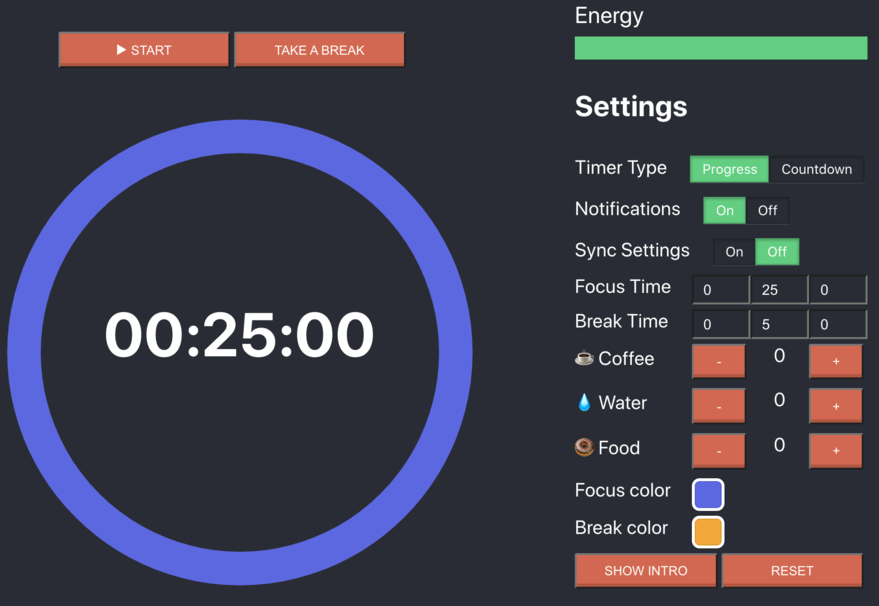
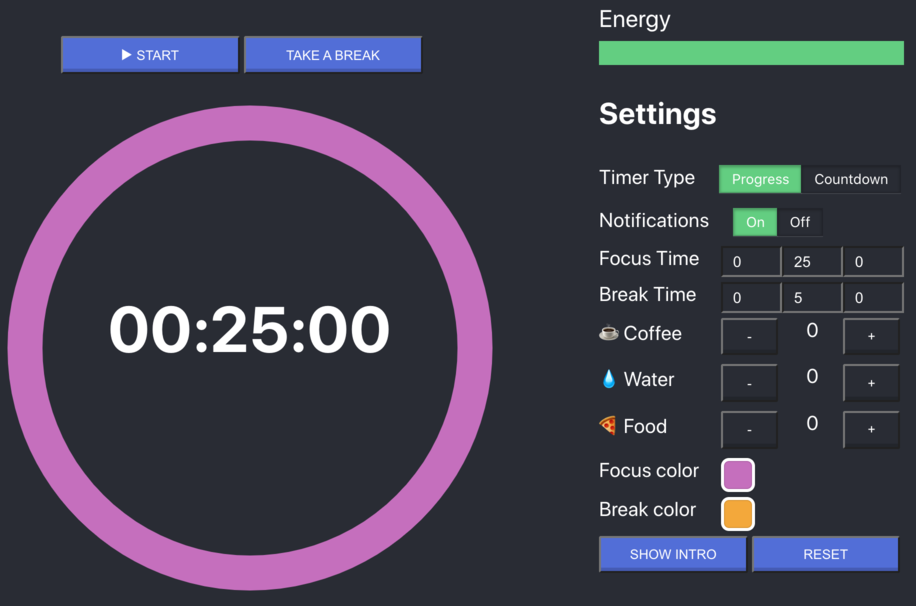
fixes fixes fixes

diff --git a/src/client/views/app/index.js b/src/client/views/app/index.js
@@ -3,7 +3,7 @@ import Layout from '../layout'
 import Timer from '../../components/timer'
 import TimerControls from '../../components/timer-controls'
 import AppSettings from '../../components/app-settings'
-import { set, get, sample, pick } from 'lodash'
+import { set, get } from 'lodash'
 import { effects } from '../../components/notification'
 import { 
   introNotifications,
@@ -25,7 +25,7 @@ import config from '../../config'
 const defaultSettings = config.app.defaultSettings
 
 const settingsLocalStorageKey = config.app.cache.keys.settings
-const getSettingsSyncExpiry = () => new Date().getTime() + config.app.cache.ttl
+// const getSettingsSyncExpiry = () => new Date().getTime() + config.app.cache.ttl
 const introLocalStorageKey = config.app.cache.keys.intro
 
 const displayIntroNotifications = ({ notifyFunc }) => {
@@ -35,12 +35,20 @@ const displayIntroNotifications = ({ notifyFunc }) => {
     })
 }
 
+const showIntroOnFirstLoad = ({ notifyFunc }) => {
+  const isIntroShown = getLocalStorage(introLocalStorageKey)
+    if (!isIntroShown) {
+      displayIntroNotifications({ notifyFunc })  
+      setLocalStorage(introLocalStorageKey, true)
+    }
+}
+
 const App = () => {
   const [isPaused, togglePause] = useState(true) // Start the timer paused
   const [inBreak, toggleBreak] = useState(false)
   const [isTimerDone, setTimerDone] = useState(false)
-  const [settingsSyncExpiry, setSettingsSyncExpiry] = useState(getSettingsSyncExpiry())
-  const cachedSettings = getLocalStorage(settingsLocalStorageKey) || {}
+  // const [settingsSyncExpiry, setSettingsSyncExpiry] = useState(getSettingsSyncExpiry())
+  // const cachedSettings = getLocalStorage(settingsLocalStorageKey) || {}
   // console.log('cachedSettings', cachedSettings.sync, defaultSettings.sync)
   const [settings, updateSettings] = useState({
     ...defaultSettings,
@@ -53,13 +61,14 @@ const App = () => {
       notify(payload)
     }
   }
-  useEffect(() => {
-    const isIntroShown = getLocalStorage(introLocalStorageKey)
-    if (!isIntroShown) {
-      displayIntroNotifications({ notifyFunc: appNotify })  
-      setLocalStorage(introLocalStorageKey, true)
-    }
-  }, [])
+  showIntroOnFirstLoad({ notifyFunc: appNotify })
+  // useEffect(() => {
+  //   const isIntroShown = getLocalStorage(introLocalStorageKey)
+  //   if (!isIntroShown) {
+  //     displayIntroNotifications({ notifyFunc: appNotify })  
+  //     setLocalStorage(introLocalStorageKey, true)
+  //   }
+  // }, [])
   useEffect(() => {
     const timer = setTimeout(() => {
       appNotify(notifyNutrientReminder())

diff --git a/src/client/components/app-settings/index.js b/src/client/components/app-settings/index.js
@@ -5,9 +5,8 @@ import RadioSetting from './radio-setting'
 import ColorPicker from './color-picker'
 import Counter from './counter'
 import Energy from './energy'
-import Button from '../button'
-import './index.css'
 import ButtonGroup from '../button-group'
+import './index.css'
 
 const AppSettings = ({ settings, onChange, onUpdate, onDisplayIntroNotifications, onResetSettings }) => {
   const timeSettings = [{
@@ -109,6 +108,7 @@ const AppSettings = ({ settings, onChange, onUpdate, onDisplayIntroNotifications
     }
   }, {
       label: 'Sync Settings',
+      hidden: true,
       settingKey: 'sync',
       value: settings.sync.value,
       choices: [{
@@ -147,7 +147,7 @@ const AppSettings = ({ settings, onChange, onUpdate, onDisplayIntroNotifications
       <div className='coffee-break-app-settings'>
         <Energy value={settings.energy.value} />
         <h2>Settings</h2>
-        {radioSettings.map((rSetting, idx) => (
+        {radioSettings.filter(setting => !setting.hidden).map((rSetting, idx) => (
           <RadioSetting
             key={idx}
             settingKey={rSetting.settingKey}

diff --git a/src/client/views/home/index.js b/src/client/views/home/index.js
@@ -1,7 +1,5 @@
 import React from 'react'
 import Layout from '../layout'
-import logo from '../../assets/logo.svg'
-import Footer from '../../components/footer'
 import Link from '../../components/link'
 import screenshot from '../../assets/screenshot/app.png'
 import { sample } from 'lodash'
@@ -22,7 +20,7 @@ const Home = () => (
           Welcome to <span className='coffee-break-accent'>Coffee Break</span>&nbsp;☕
           <br /> 
           <span className='coffee-break-view-home-sub-tagline'>
-            A productivity app to help you focus and get things done.
+            A productivity app to help you focus and get things done
           </span>
       </div>
       <div className='coffee-break-view-home-cta animate__animated animate__fadeInLeftBig animate__animated animate__fadeInLeft'>

diff --git a/src/client/components/footer/index.js b/src/client/components/footer/index.js
@@ -4,12 +4,20 @@ import Link from '../link'
 import config from '../../config'
 import './index.css'
 
-const Footer = ({ }) => (
-  <div className='coffee-break-footer'>
+const Footer = ({ className }) => (
+  <div className={`coffee-break-footer ${className}`}>
     Support this project by <Link href={config.coffeeUrl}>buying me a coffee</Link>
     <br />
     Built with 💙 by <Link href={config.author.url}>{config.author.name}</Link>
   </div>
 )
+
+Footer.propTypes = {
+  className: PropTypes.string
+}
+
+Footer.defaultProps = {
+  className: ''
+}
 
 export default Footer

diff --git a/src/client/components/notification/payloads.js b/src/client/components/notification/payloads.js
@@ -61,8 +61,8 @@ export const notifyOnResume = () => ({
   title: sample([
     'Welcome back, your excellency 🤴',
     'Hello again, old friend 👋',
-    'Good to see you again mate',
-    `Ah, you've returned from your quest. Let us begin`
+    'Good to see you again friend 👋',
+    `Ah, you've returned from your quest 🐴. Let us begin`
   ]),
   status: statuses.none,
   dismissible: true,

diff --git a/src/client/util/local-storage.js b/src/client/util/local-storage.js
@@ -12,7 +12,7 @@ export const setLocalStorage = (key, value, expiry = undefined) => (
 
 export const getLocalStorage = (key, defaultValue = null) => {
   const lsItem = window.localStorage.getItem(key)
-  if (!lsItem) {
+  if (!lsItem || JSON.parse(lsItem) === null) {
     return defaultValue
   } else {
     const item = JSON.parse(lsItem)

diff --git a/src/client/views/layout/index.css b/src/client/views/layout/index.css
@@ -6,7 +6,7 @@
   --coffee-break-error-color: #F7B267;
   --coffee-break-link-color: #e26049;
   --coffee-break-link-hover-color: white;
-  --coffee-break-button-background-color: #e26049;
+  --coffee-break-button-background-color: #4d6cde;
 }
 
 body {

diff --git a/src/client/config/index.js b/src/client/config/index.js
@@ -61,7 +61,7 @@ const defaultConfig = {
           },
           pomodoros: 0
         },
-        strokeColor: '#5d65e7'
+        strokeColor: '#d367c1'
       },
       break: {
         time: {

diff --git a/src/client/components/app-settings/counter/index.css b/src/client/components/app-settings/counter/index.css
@@ -8,6 +8,6 @@
 }
 
 .coffee-break-app-settings-counter-btn {
-  /* font-size: 16px; */
+  background-color: var(--coffe-break-background-color);
 }
 
